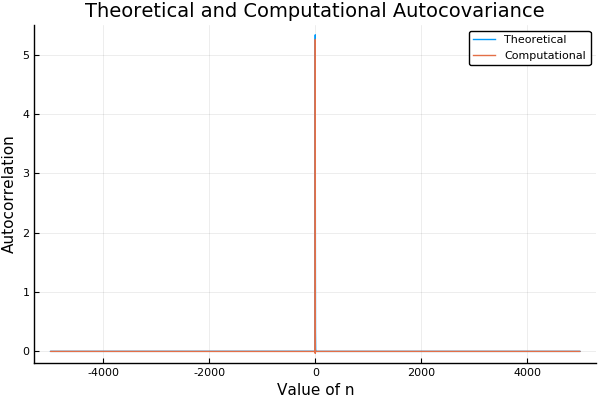
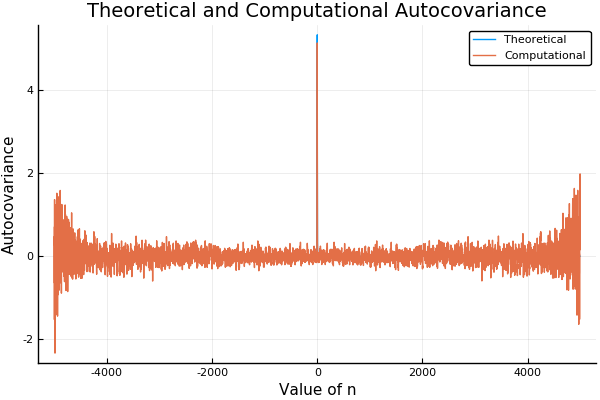
Updates from ShareLaTeX

Changed region(s): [[0.0, 0.06, 0.99, 0.99], [0.15, 0.0, 0.93, 0.06]]

diff --git a/Assignment2.tex b/Assignment2.tex
@@ -14,28 +14,86 @@
 
 \section{Analysing Exoplanet Data}
 
-Starting off with the naive approach, just finding the local minima and averaging the distance between them FigureX, yielding an orbital period of 2.2 days, presuming the measurements are recorded in days. 
+Starting off with the naive approach, just finding the local minima and averaging the distance between them (Figure 1), yielding an orbital period of 2.2 days, presuming the measurements are recorded in days. 
+
+\begin{figure}[h]
+    \centering
+    \includegraphics[width=\textwidth]{Period.png}
+    \caption{dip is an array holding all of the argmin() functions relating to the large intensity dips}
+    \label{fig:my_label}
+\end{figure}
 
 Next an attempt to show this using an fft algorithm is attempted, but it seems to correspond to a period of $\approx 4.822$ days which cannot be correct, although there is a much smaller peak corresponding to  the 2.2 period.
 
-Furthermore, there is a vast peak,that I believe corresponds to the frequency for the orbital period,  by expecting the peak at $\approx 0.55$, even if the much smaller spikes seem to match half wavelength harmonics of this.
+\begin{figure}[h]
+    \centering
+    \begin{minipage}{0.5\textwidth}
+        \centering
+        \includegraphics[width=0.9\textwidth]{ftfull.png} 
+    \end{minipage}\hfill
+    \begin{minipage}{0.5\textwidth}
+        \centering
+        \includegraphics[width=0.9\textwidth]{logfull.png} 
+    \end{minipage}
+\end{figure}
 
-By plotting the intensity dips over the same range we can extrapolate the points at which the exoplanet starts blocking light and when it ends. By take the average of the points we get a transit time of $\approx 0.1839$ days or $\approx 4.41$ hours.
+Furthermore, there is a vast peak,that I believe corresponds to the frequency for the orbital period, even if the much smaller spikes seem to match half wavelength harmonics of a 2.2 day period.
+
+\begin{figure}[h]
+    \centering
+    \includegraphics[width=\textwidth]{dips.png}
+    \caption{curves are denoted by the measurement number at which the minima is found}
+\end{figure}
+
+By plotting the intensity dips (Figure 2) over the same range we can extrapolate the points at which the exoplanet starts blocking light and when it ends. By take the average of the points we get a transit time of $\approx 0.1839$ days or $\approx 4.41$ hours (Figure 3).
+
+\begin{figure}[h]
+    \centering
+    \includegraphics[width=\textwidth]{Transit.png}
+    \caption{Calculated by taking the average of the duration of the times when intensity is significantly lower than average Intensity}
+\end{figure}
 
 Flux is given by $flux = \frac{Intensity}{Area}$ as we don't know the areas we can only find the ratio of the star and planet radii. 
 $$ \frac{I_s}{A_s} = \frac{I_{s-p}}{A_s-A_p} $$
 where $I_s\   ,  I_{s-p}$ are the intensity of the sun and of the sun when the planet passes respectively, $A_s\  ,  A_p$ are the area of the sun and planet respectively. The astronomical distance away any star is we can treat the area as a circle giving the ratio of radii as:
 $$\frac{r_s}{r_p} = \sqrt{1-\frac{I_{s-p}}{I_s}}$$
-Which is shown by R\_ratio in FigureX, corresponding to the star being only $11.75$ times larger than its planet! Considering the Sun is $400$ times larger than the earth, and the Sun is $10$ times larger by radius than jupiter, I would like to start to try and make simple hypotheses on this system.
 
-By considering the period of 2.2 days, we can infer a relative velocity, and can constrict this by a relative escape velocity, or restrict the mass of the planet but using Jupiter as the largest dimension of planet for condensing and beginning to become a star occurs. However upon thinking about this our data actually does not give us any information on parallax between these bodies. There, to my knowledge, is no difference between the observed intensities if the star is orbiting the planet or vice versa and therefore it could have more or less mass than Jupiter, as jupiter would shrink as it acquired more mass from its current size.
+\begin{figure}[h]
+    \centering
+    \includegraphics[width=\textwidth]{radii.png}
+    \caption{remover is present to remove the data when the planet is in front of the star allowing for a meaningful average of intensity without an obstructing body}
+\end{figure}
+
+Which is shown by R\_ratio in (Figure 4), corresponding to the star being only $11.75$ times larger than its planet! Considering the Sun is $400$ times larger than the earth, and the Sun is $10$ times larger by radius than Jupiter, I would like to start to try and make simple hypotheses on this system.
+
+By considering the period of 2.2 days, we can infer a relative velocity, and can constrict this by a relative escape velocity, or restrict the mass of the planet but using Jupiter as the largest dimension of planet for condensing and beginning to become a star occurs. However upon thinking about this our data actually does not give us any information on parallax between these bodies. There, to my knowledge, is no difference between the observed intensities if the star is orbiting the planet or vice versa and therefore it could have more or less mass than Jupiter, as Jupiter would shrink as it acquired more mass from its current size. Meaning, disappointingly, I can make no further meaningful deductions.
+
+However from some online research I have found this article\\ [http://sac.au.dk/fileadmin/www.sac.au.dk/Project\_updated\_gr.1.pdf]\\
+which leads me to believe I have data from the exoplanet HAT-P-7, however the power spectrum I produced is rather closer to the exoplanet Kepler-7b. Curious. Further investigation needed. Although it does confirm my hypothesis of the planet being Jupiter-like, referring to it specifically as a 'Hot Jupiter' which is a Jupiter-like planet with an orbit of $< 10$ days.
 
 
 \section{Simulation of an Auto-Regressive Model}
 
-INSERT CODE HERE
+\begin{figure}[h]
+    \centering
+    \includegraphics[width=\textwidth]{th_em.png}
+    \caption{The value of this sample are close to but not quite equal to the theoretical values as we would expect from a sample of a distribution}
+\end{figure}
 
+\begin{figure}[h]
+    \centering
 
+        \centering
+        \includegraphics[width=0.9\textwidth]{smallautocov.png}
+        \caption{Matches quite well but is seeming to deviate as n grows}
+\end{figure}
+
+\begin{figure}
+        \centering
+        \includegraphics[width=0.9\textwidth]{largeautocov.png}
+        \caption{Deviates wildly as we get to larger n, but as we have less data points this is to be expected. At the outer most edges it is almost a standard deviation away from the expected 0, in some cases, but again this makes sense as sample size is tending to 1}
+
+\end{figure}
 
 
 
